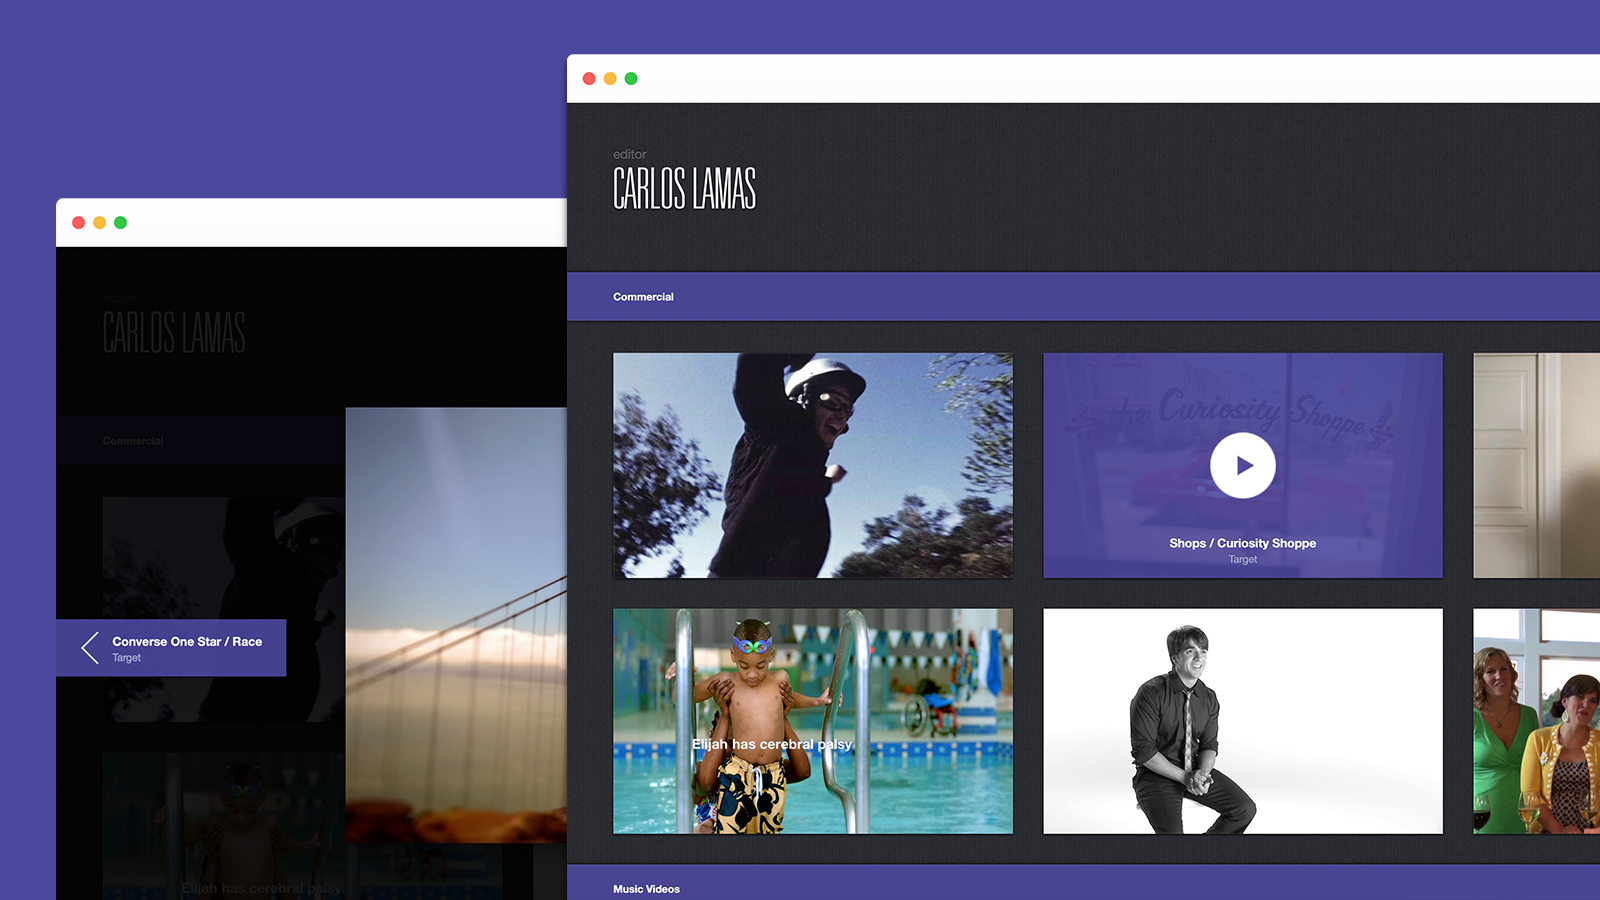
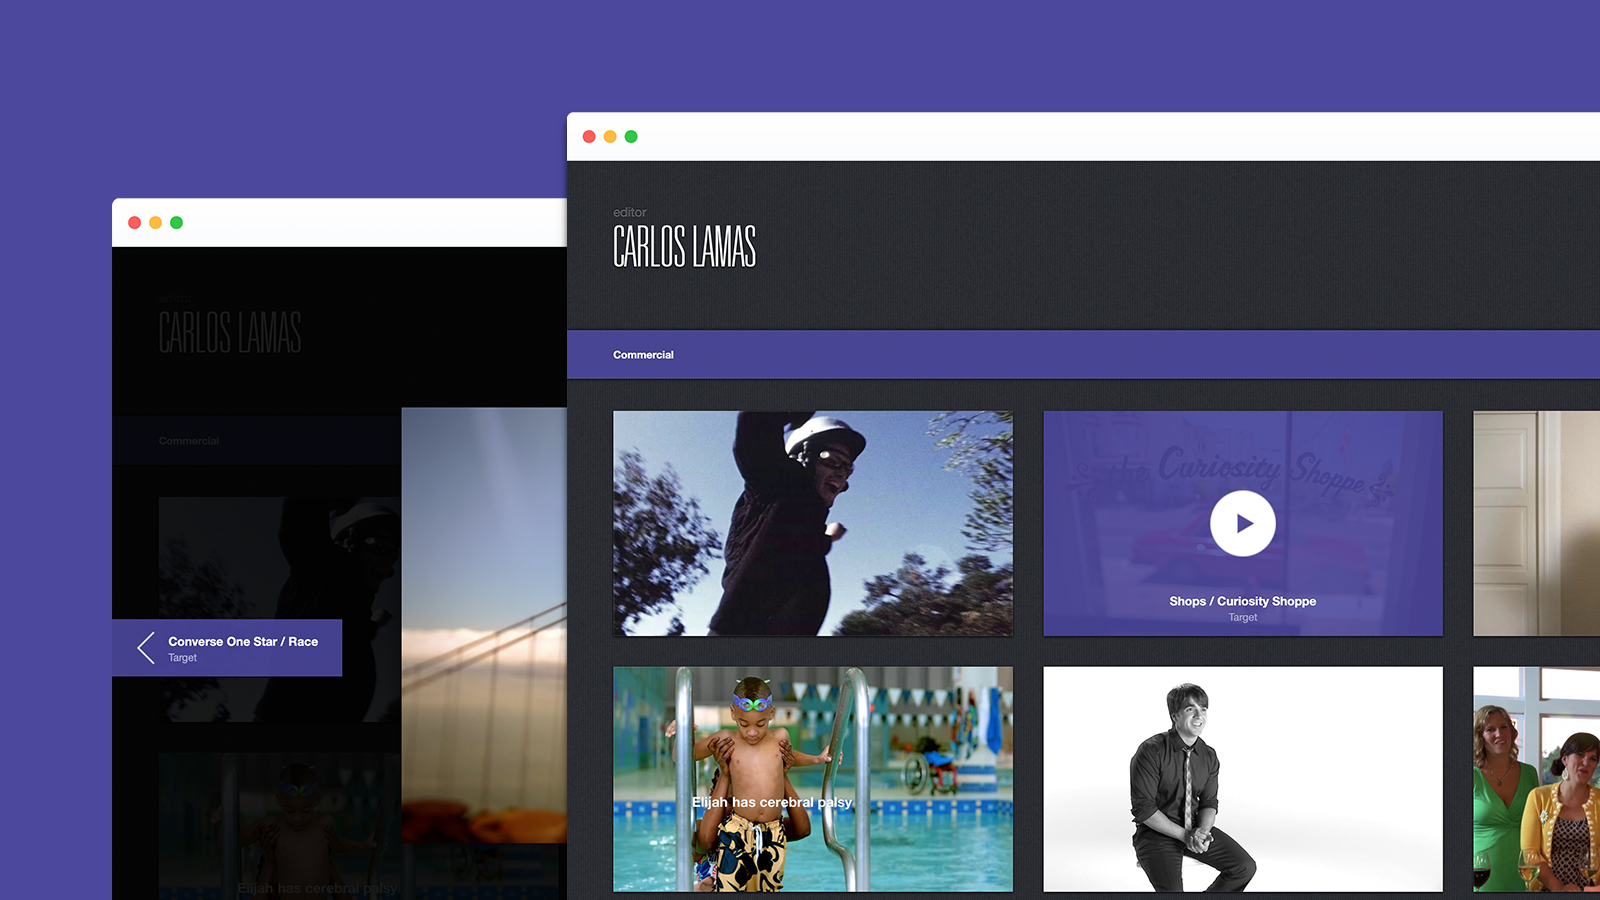
Optimizing all project teaser images.

diff --git a/src/index.html b/src/index.html
@@ -20,7 +20,12 @@
         <li class="onehub card highlight">
           <a href="/onehub/" class="card-action-area">
             <div class="card-image">
-              <img src="/images/onehub/onehub-card@2x.png" alt="Onehub – Cloud storage redefined.">
+              <img src="/images/onehub/onehub-teaser~800.png"
+                   srcset="/images/onehub/onehub-teaser~400.png 400w,
+                           /images/onehub/onehub-teaser~800.png 800w,
+                           /images/onehub/onehub-teaser~1600.png 1600w,
+                           /images/onehub/onehub-teaser~3200.png 3200w"
+                   alt="Onehub – teaser">
             </div>
             <div class="card-content">
               <h3>Onehub</h3>
@@ -31,7 +36,11 @@
         <li class="marshal card">
           <a href="/marshal/" class="card-action-area">
             <div class="card-image">
-              <img src="/images/marshal/marshal-card@2x.png" alt="Marshal - Know what you're sharing.">
+              <img src="/images/marshal/marshal-teaser~800.png"
+                   srcset="/images/marshal/marshal-teaser~400.png 400w,
+                           /images/marshal/marshal-teaser~800.png 800w,
+                           /images/marshal/marshal-teaser~1600.png 1600w"
+                   alt="Marshal – teaser">
             </div>
             <div class="card-content">
               <h3>Marshal</h3>
@@ -113,7 +122,11 @@
         <li class="iowa-actors card">
           <a href="/iowa-actors/" class="card-action-area">
             <div class="card-image">
-              <img src="/images/iowa-actors/iowa-actors-card@2x.png" alt="Iowa Actors – A diverse group of thirteen exciting new actors.">
+              <img src="/images/iowa-actors/iowa-actors-teaser~800.png"
+                   srcset="/images/iowa-actors/iowa-actors-teaser~400.png 400w,
+                           /images/iowa-actors/iowa-actors-teaser~800.png 800w,
+                           /images/iowa-actors/iowa-actors-teaser~1600.png 1600w"
+                   alt="Iowa Actors – teaser">
             </div>
             <div class="card-content">
               <h3>Iowa Actors</h3>

diff --git a/src/stylesheets/modules/_projects.scss b/src/stylesheets/modules/_projects.scss
@@ -8,22 +8,7 @@
     padding: 0;
   }
   .card {
-    &.onehub {
-      .card-image {
-        img { object-position: 0 0; }
-      }
-    }
-    &.kenny-meyers {
-      .card-image {
-        img { object-position: 50% 50%; }
-      }
-    }
-    &.marshal {
-      .card-image {
-        img { object-position: 100% 100%; }
-      }
-    }
-    &.r8r {
+    &.iowa-actors, &.r8r {
       .card-image {
         img { object-position: 100% 0; }
       }
@@ -33,10 +18,9 @@
   @include breakpoint($breakpoint-tablet) {
     .projects-list {
       grid-auto-flow: dense;
-      grid-auto-rows: minmax(18rem, .375fr);
-      grid-template-columns: repeat(auto-fit, minmax(20rem, 1fr));
+      grid-auto-rows: minmax(14rem, .275fr);
       grid-gap: 2rem;
-      // grid-template-columns: repeat(auto-fit, minmax(24rem, 1fr));
+      grid-template-columns: repeat(auto-fit, minmax(20rem, 1fr));
       grid-template-rows: 1fr;
       .card {
         &.carlos-lamas {
@@ -85,8 +69,8 @@
 
   @include breakpoint($breakpoint-desktop) {
     .projects-list {
-      grid-auto-rows: minmax(18rem, .375fr);
-      grid-template-columns: repeat(auto-fit, minmax(20rem, 1fr));
+      grid-auto-rows: minmax(16rem, .275fr);
+      grid-template-rows: .85fr;
       > li {
         &.highlight {
           grid-column: span 3;
@@ -98,8 +82,9 @@
 
   @include breakpoint($breakpoint-widescreen) {
     .projects-list {
-      grid-auto-rows: minmax(22rem, .375fr);
+      grid-auto-rows: minmax(20rem, .275fr);
       grid-template-columns: repeat(auto-fit, minmax(24rem, 1fr));
+      grid-template-rows: 1fr;
     }
   }
 }
